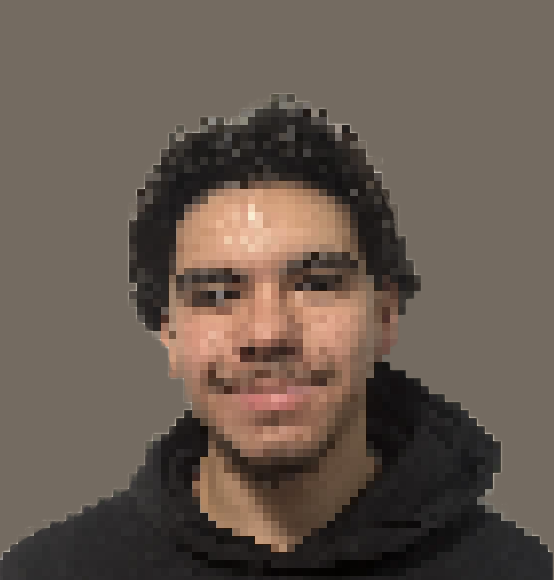
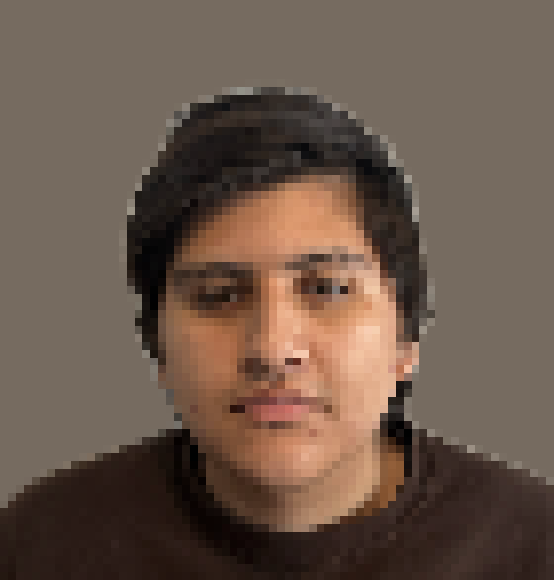
the goat

diff --git a/art/characters/character.md b/art/characters/character.md
@@ -8,19 +8,19 @@
 
 Tick yours off as you finish:
 
-- [ ] `rosa.png` (Person 1)
-- [ ] `amara.png` (Person 1)
-- [ ] `jun.png` (Person 1)
-- [ ] `lucia.png` (Person 1)
-- [ ] `hal.png` (Person 2)
-- [ ] `dev.png` (Person 2)
-- [ ] `dmitri.png` (Person 2)
+- [x] `rosa.png` (Person 1)
+- [x] `amara.png` (Person 1)
+- [x] `jun.png` (Person 1)
+- [x] `lucia.png` (Person 1)
+- [x] `hal.png` (Person 2)
+- [x] `dev.png` (Person 2)
+- [x] `dmitri.png` (Person 2)
 - [ ] `myster.png` (Person 2)
-- [ ] `priya.png` (Person 2)
-- [ ] `marty.png` (Person 3)
+- [x] `priya.png` (Person 2)
+- [x] `marty.png` (Person 3)
 - [ ] `tasha.png` (Person 3)
-- [ ] `zainab.png` (Person 3)
-- [ ] `mateo.png` (Person 3)
-- [ ] `skye.png` (Person 4)
-- [ ] `inez.png` (Person 4)
-- [ ] `sam.png` (Person 4)
+- [x] `zainab.png` (Person 3)
+- [x] `mateo.png` (Person 3)
+- [x] `skye.png` (Person 4)
+- [x] `inez.png` (Person 4)
+- [x] `sam.png` (Person 4)
